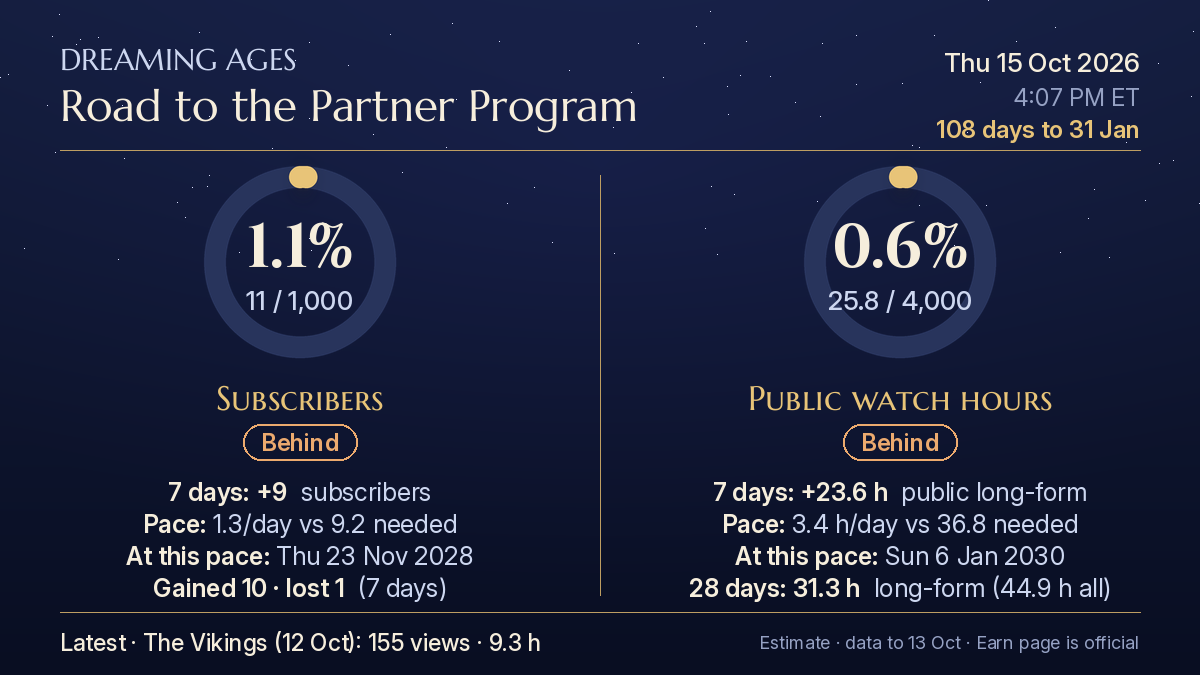
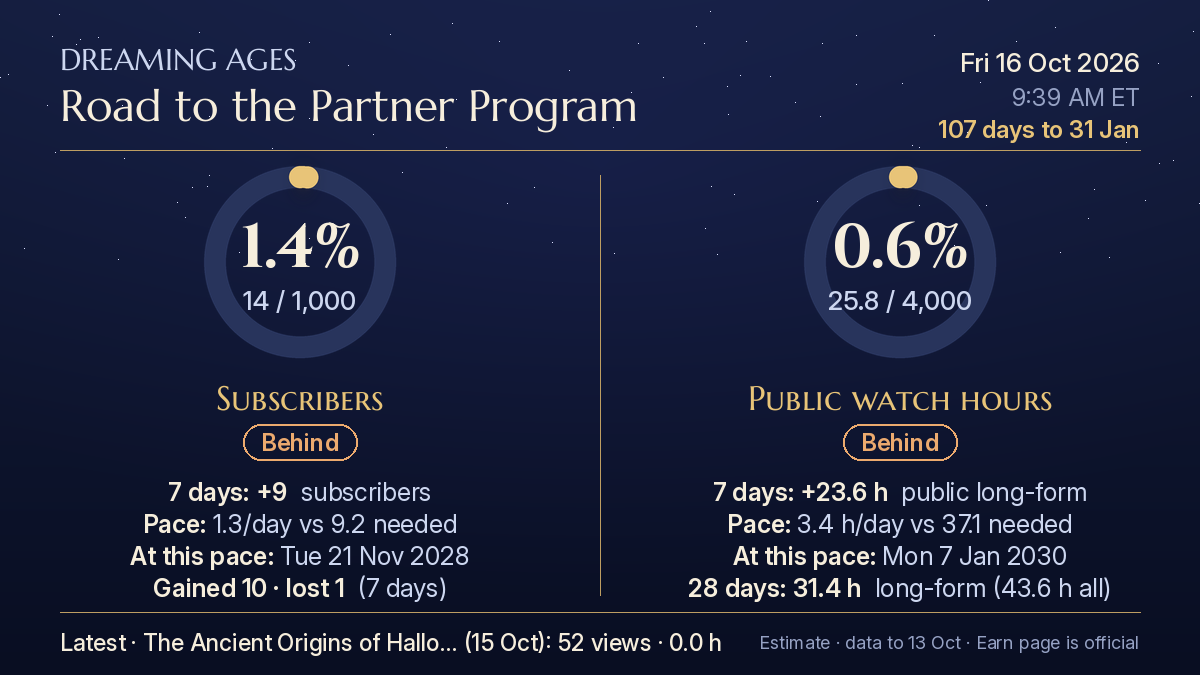
Update progress snapshot 2026-10-16

diff --git a/p/konosbt2d0ncvi5e/index.html b/p/konosbt2d0ncvi5e/index.html
@@ -17,8 +17,8 @@ p{margin:10px 2px 0;color:#96a2c4;font-size:12px;text-align:center}
 </head>
 <body>
 <main>
-<img src="progress.png?v=2026-10-15T1607" alt="Progress toward the YouTube Partner Program: 11 of 1,000 subscribers, 25.8 of 4,000 public watch hours" width="1200" height="675">
-<p>Updated Thu 15 Oct, 4:07 PM ET · refreshes hourly · estimate, YouTube Studio's Earn page is official</p>
+<img src="progress.png?v=2026-10-16T0939" alt="Progress toward the YouTube Partner Program: 14 of 1,000 subscribers, 25.8 of 4,000 public watch hours" width="1200" height="675">
+<p>Updated Fri 16 Oct, 9:39 AM ET · refreshes hourly · estimate, YouTube Studio's Earn page is official</p>
 </main>
 </body>
 </html>
